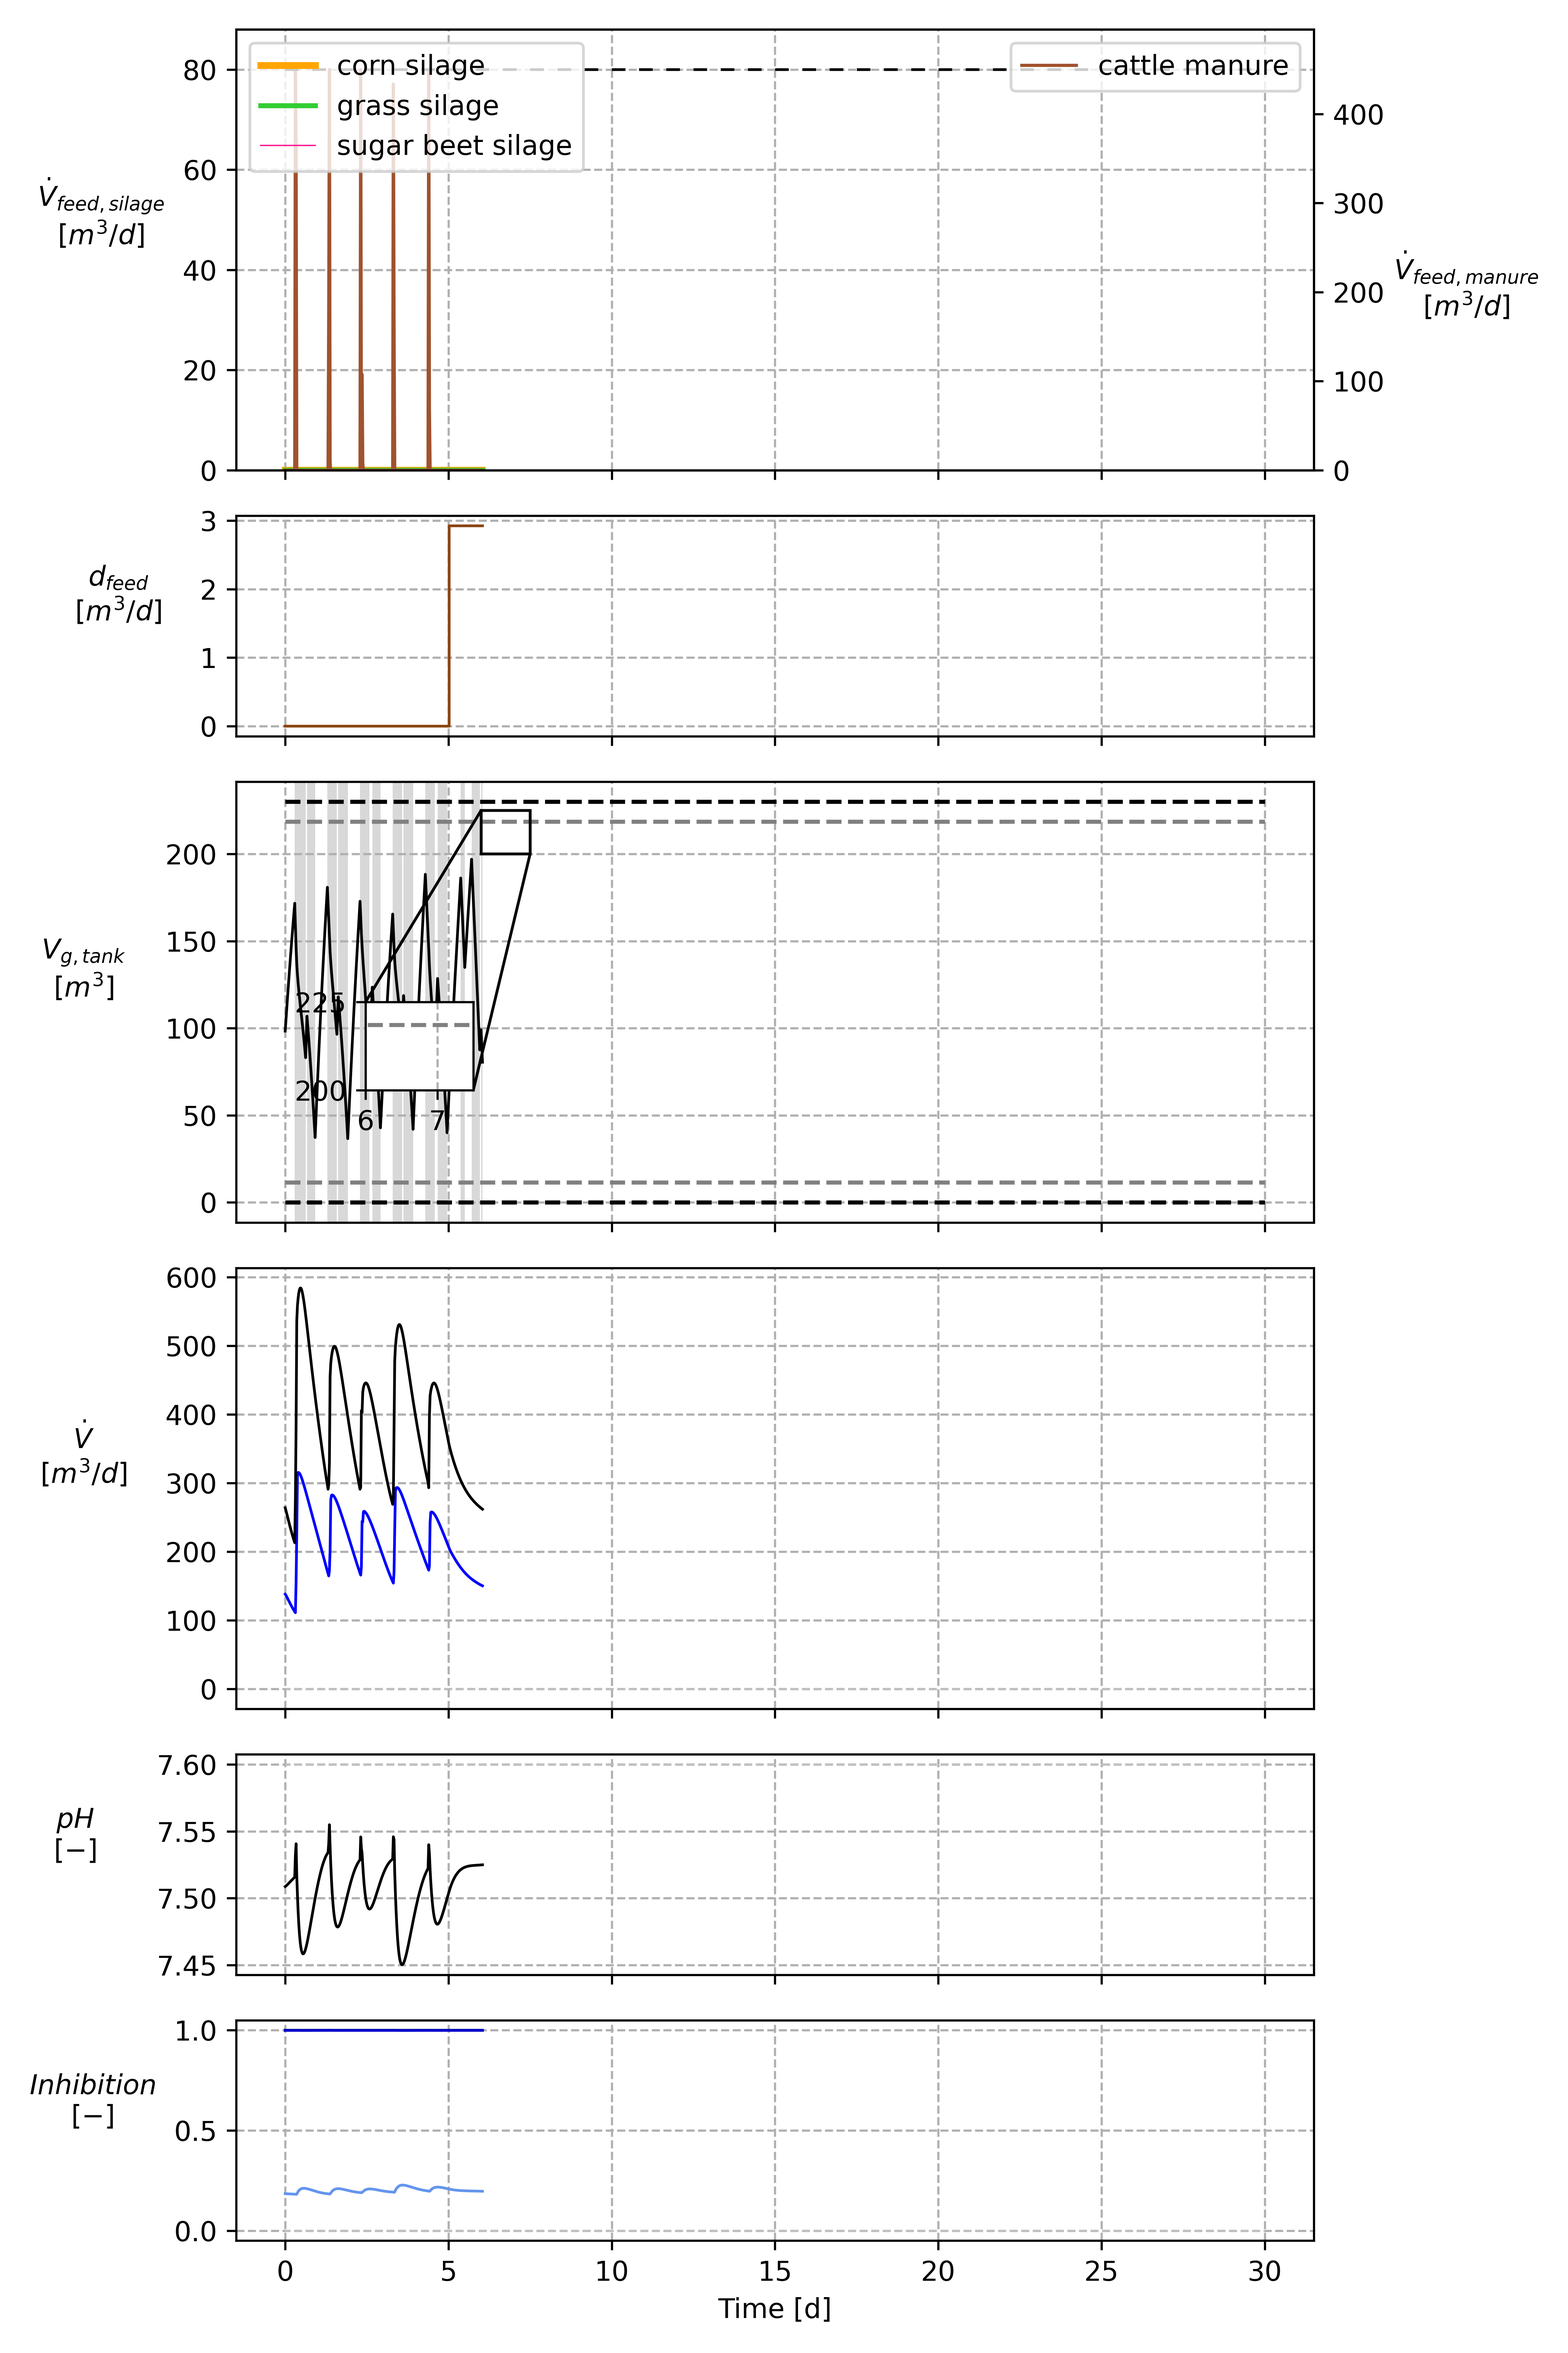
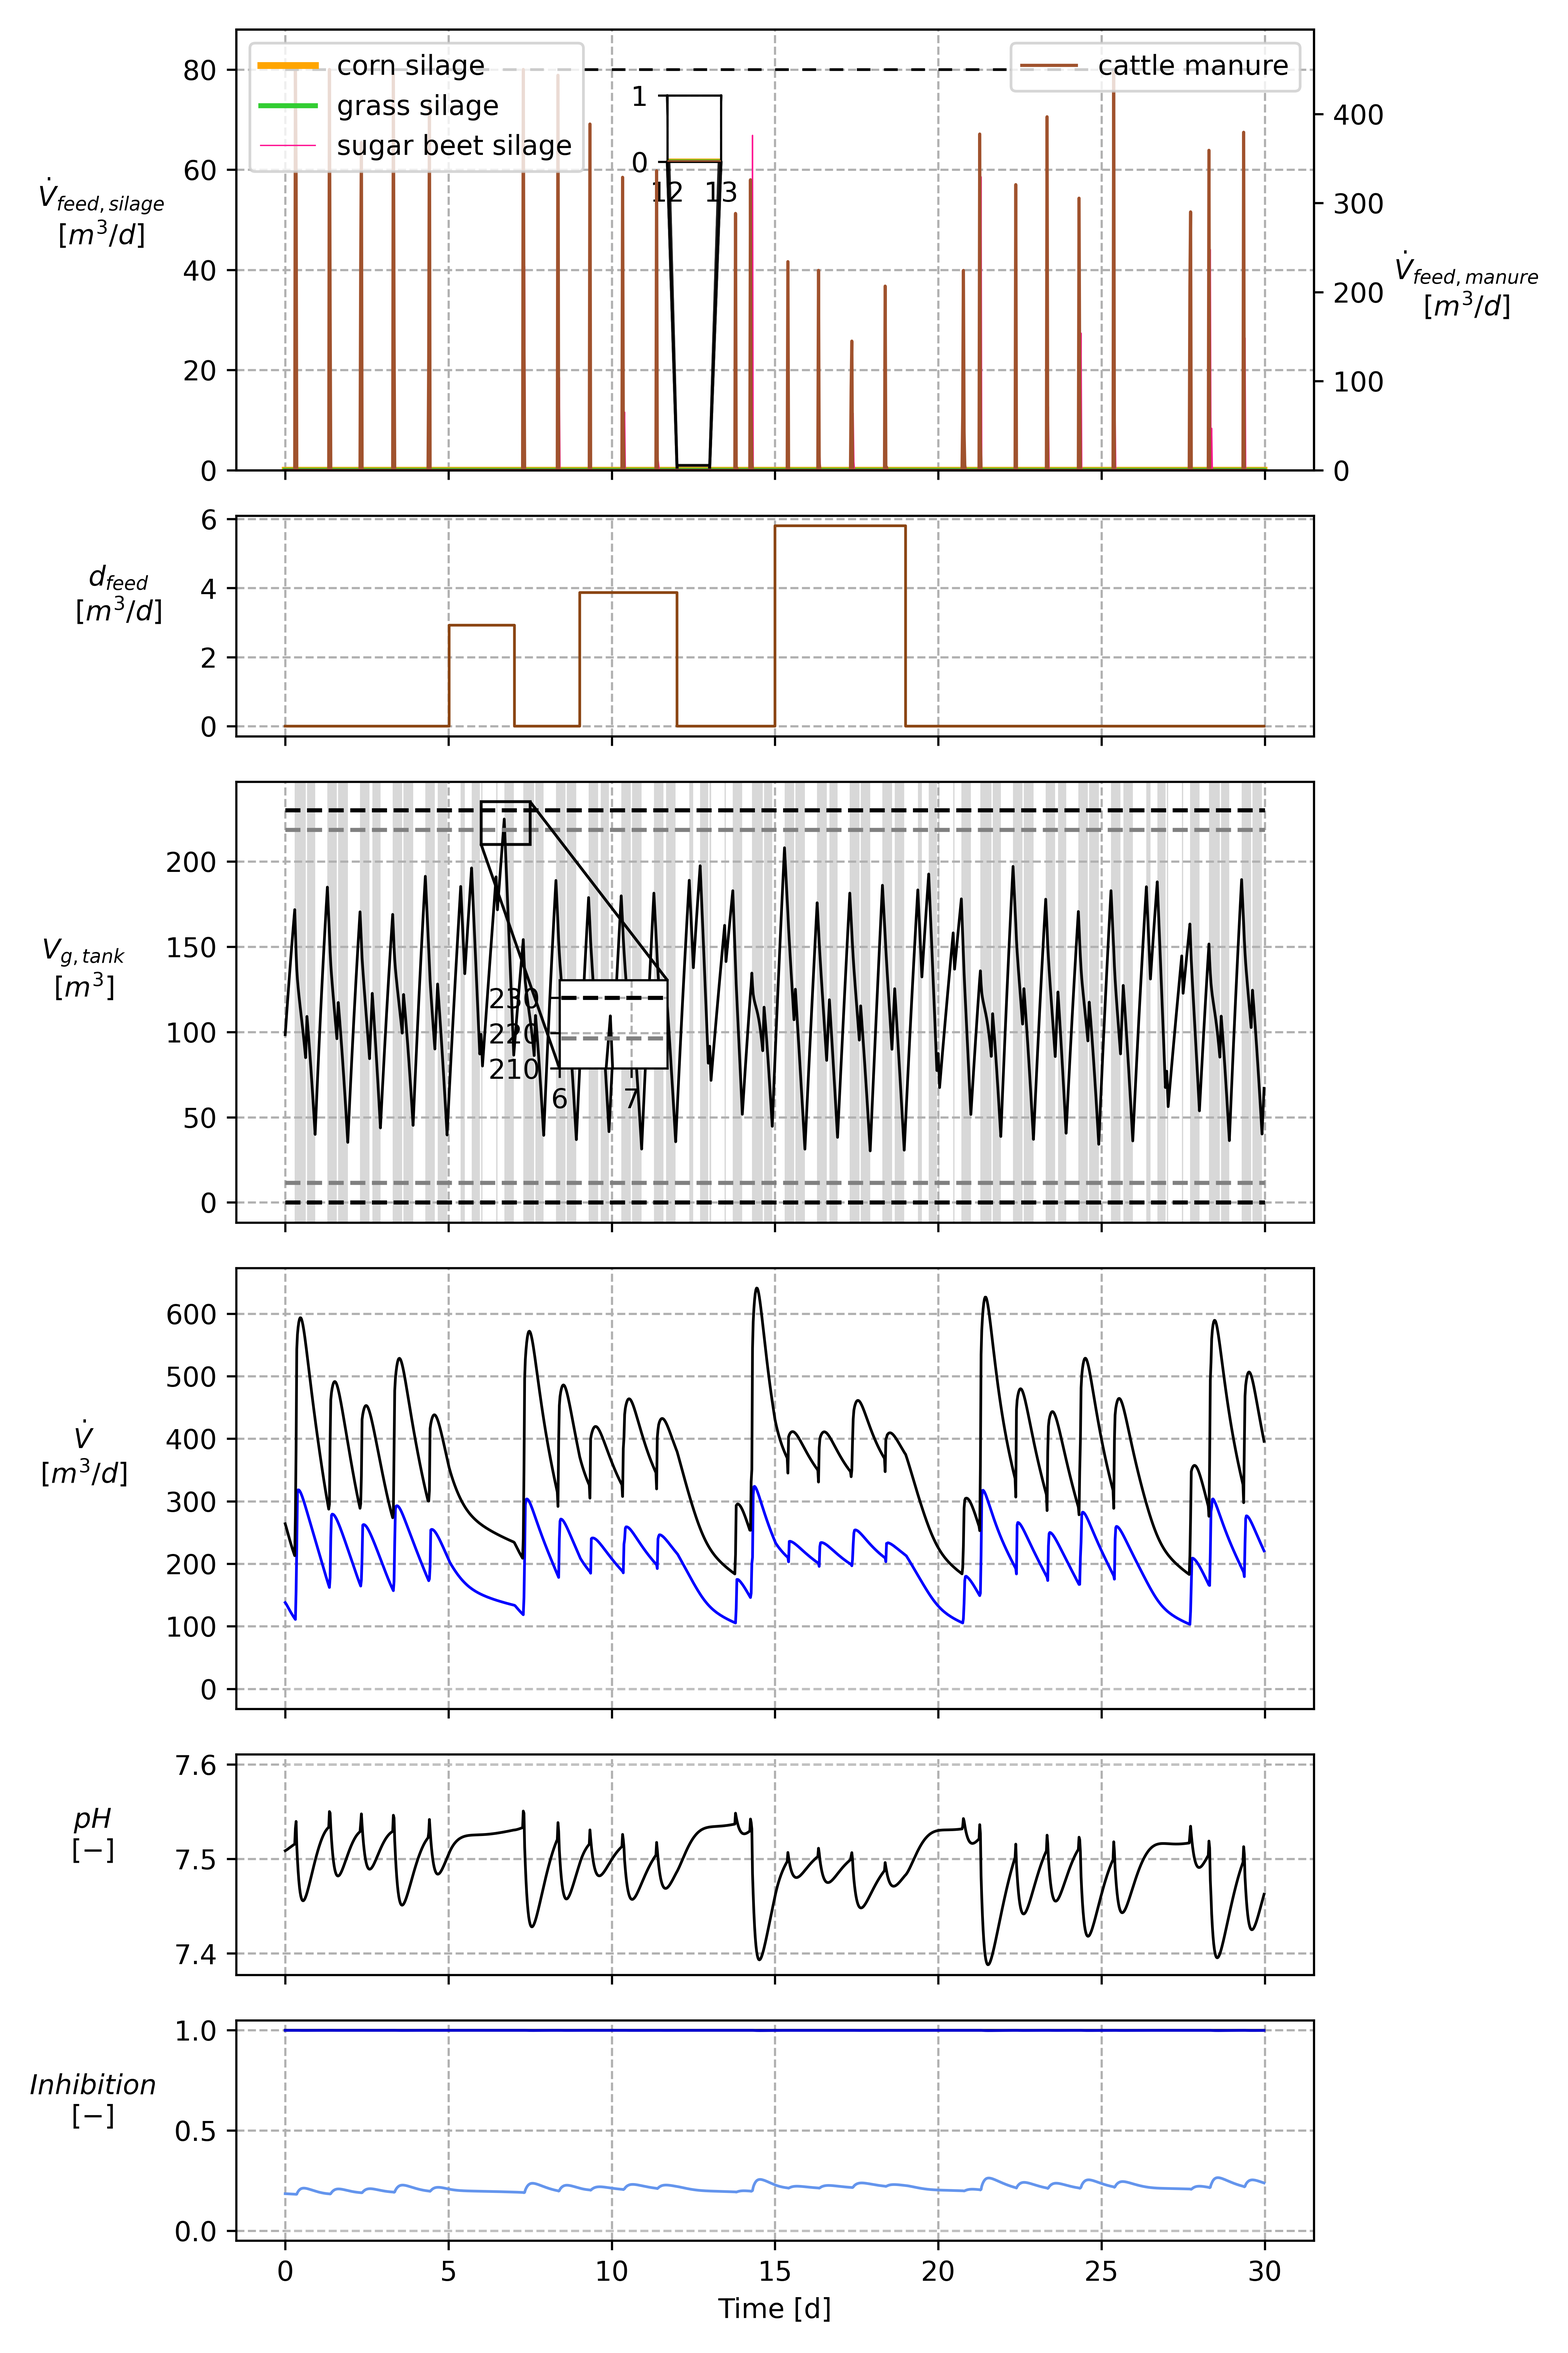
update scenario 2c, clean up

diff --git a/ad_meal_prep_control/postprocessing.py b/ad_meal_prep_control/postprocessing.py
@@ -159,7 +159,7 @@ class PostProcessing:
 
         axes[-1].set_xlabel("Time [d]")
 
-        # draw the actual plot:
+        # draw the actual plots:
         for ax_idx, (axis, subplot_label_and_vars) in enumerate(
                 zip(axes, subplot_labels_and_vars)
         ):
@@ -174,6 +174,7 @@ class PostProcessing:
                         if isinstance(plot_var_property, PlotVarProperty)
                         else self._default_mpl_properties.to_dict()
                     )
+                    # plot states:
                     if plot_var_name[0] == "x":
                         x_num = int(plot_var_name.split("_")[-1])
 
@@ -301,9 +302,7 @@ class PostProcessing:
 
                             if input_inset_axes is not None:
                                 for inset_ax_u in inset_axes_u:
-                                    ax.indicate_inset_zoom(
-                                        inset_ax_u, edgecolor="black", linewidth=1.0
-                                    )
+                                    ax.indicate_inset_zoom(inset_ax_u, edgecolor="black", linewidth=1.0)
 
                         # Add constraints to plot
                         # ax.hlines(
@@ -400,7 +399,9 @@ class PostProcessing:
                                     )
 
                                     ax.indicate_inset_zoom(
-                                        inset_ax, edgecolor="black", linewidth=1.0
+                                        inset_ax,
+                                        edgecolor="black",
+                                        linewidth=1.0
                                     )
 
                         else:
@@ -466,7 +467,9 @@ class PostProcessing:
                                     )
 
                                     ax.indicate_inset_zoom(
-                                        inset_ax, edgecolor="black", linewidth=1.0
+                                        inset_ax,
+                                        edgecolor="black",
+                                        linewidth=1.0
                                     )
 
             for ax in axes_stacked:

diff --git a/ad_meal_prep_control/plot_generation/plot_scenario_2c.py b/ad_meal_prep_control/plot_generation/plot_scenario_2c.py
@@ -135,12 +135,18 @@ post_processing.plot(
     dpi=dpi,
     show_plot=show_plot,
     height_ratios=[2, 1, 2, 2, 1, 1],
+    input_inset_axes=[
+        {
+            "days": (12, 13),
+            "ylimit": (0, 1),
+            "inset_axis_specs": (0.4, 0.7, 0.05, 0.15),
+        }],
     other_inset_axes=[
         {
             "plot_idx": 2,
             "days": (6, 7.5),
-            "ylimit": (200, 225),
-            "inset_axis_specs": (0.12, 0.3, 0.1, 0.2),
+            "ylimit": (210, 235),
+            "inset_axis_specs": (0.3, 0.35, 0.1, 0.2),
         },
     ],
     color_background_indices=(2,),

diff --git a/ad_meal_prep_control/scenarios/scenario_2c.py b/ad_meal_prep_control/scenarios/scenario_2c.py
@@ -12,7 +12,7 @@ import random
 
 np.random.seed(seed=42)
 
-fill_level_setpoint = 0.40
+fill_level_setpoint = 0.4
 lterm = (f"(0.5*(model.x['x_19'] + model.x['x_20'] + model.aux['V_H2O']/V_GAS_STORAGE_MAX - {fill_level_setpoint})**2 +"
          f"+ 50*(model.x['x_19'] + model.x['x_20'] + model.aux['V_H2O']/V_GAS_STORAGE_MAX - {fill_level_setpoint})**4)"
          )
